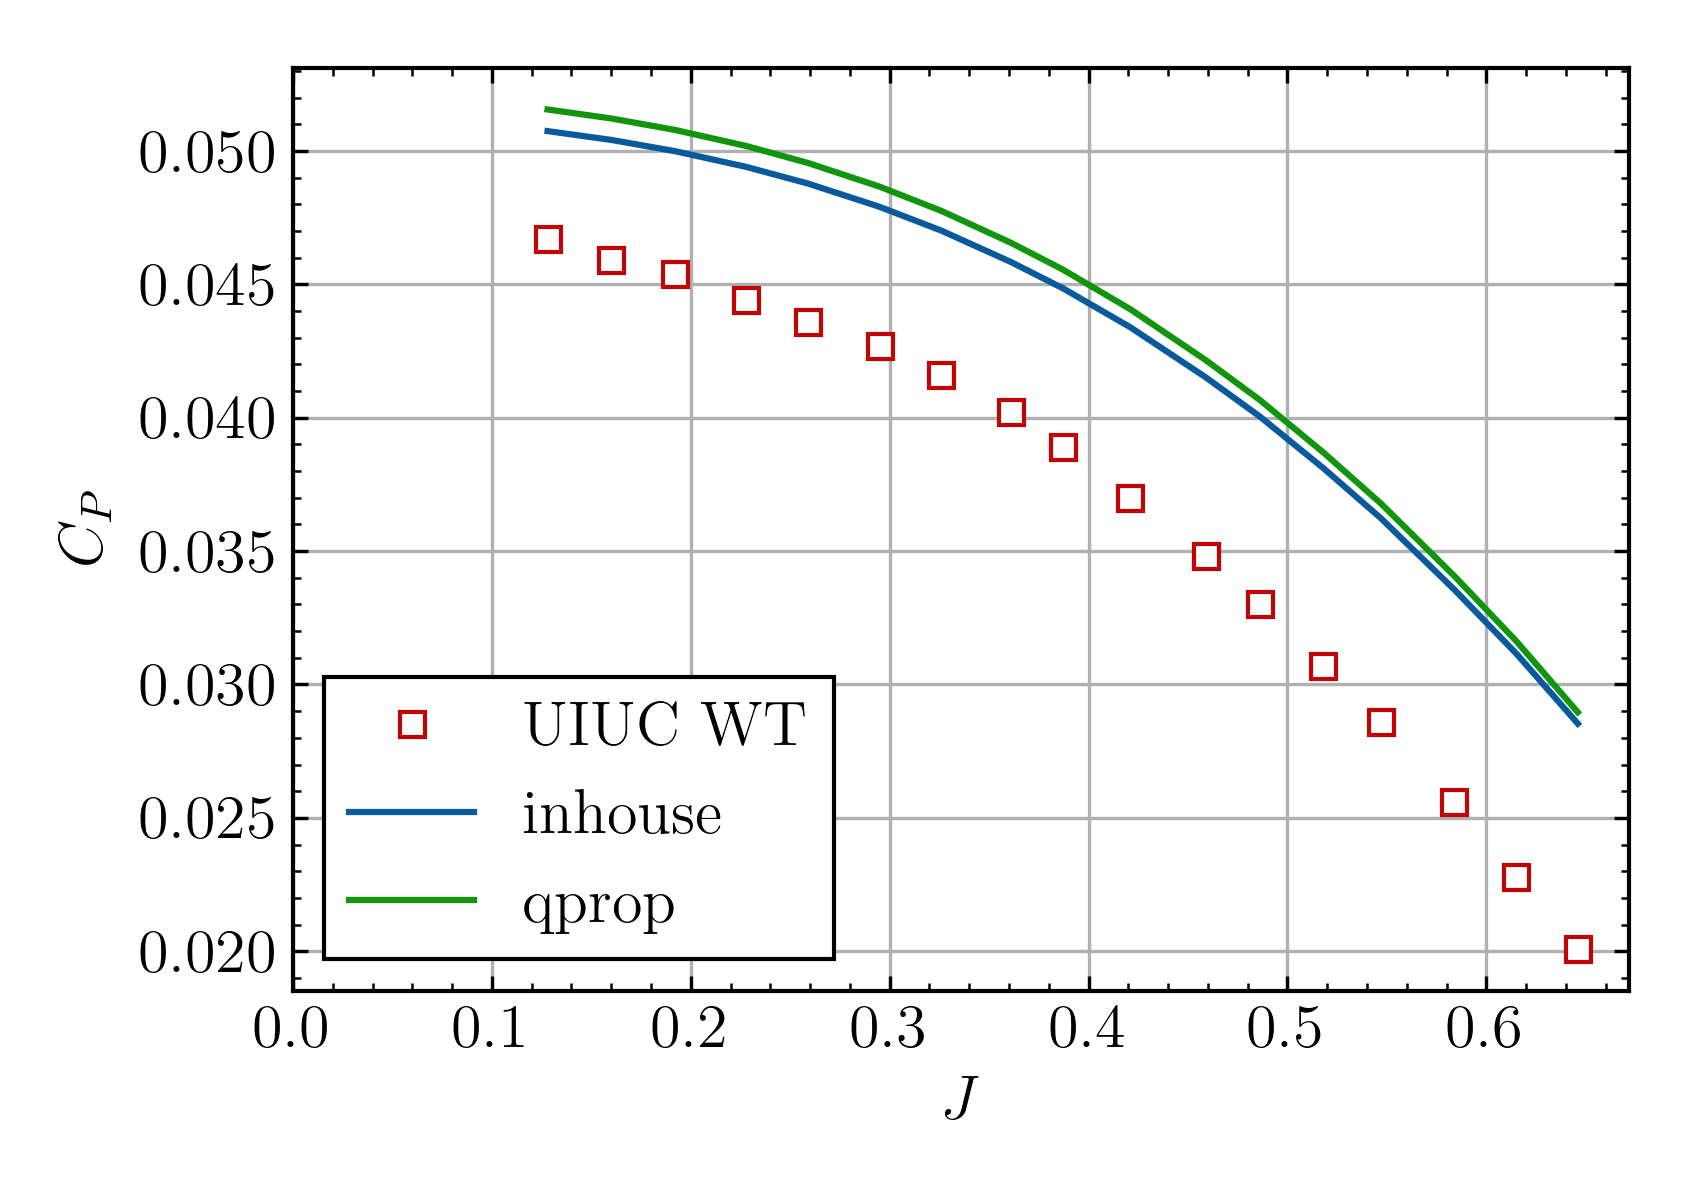
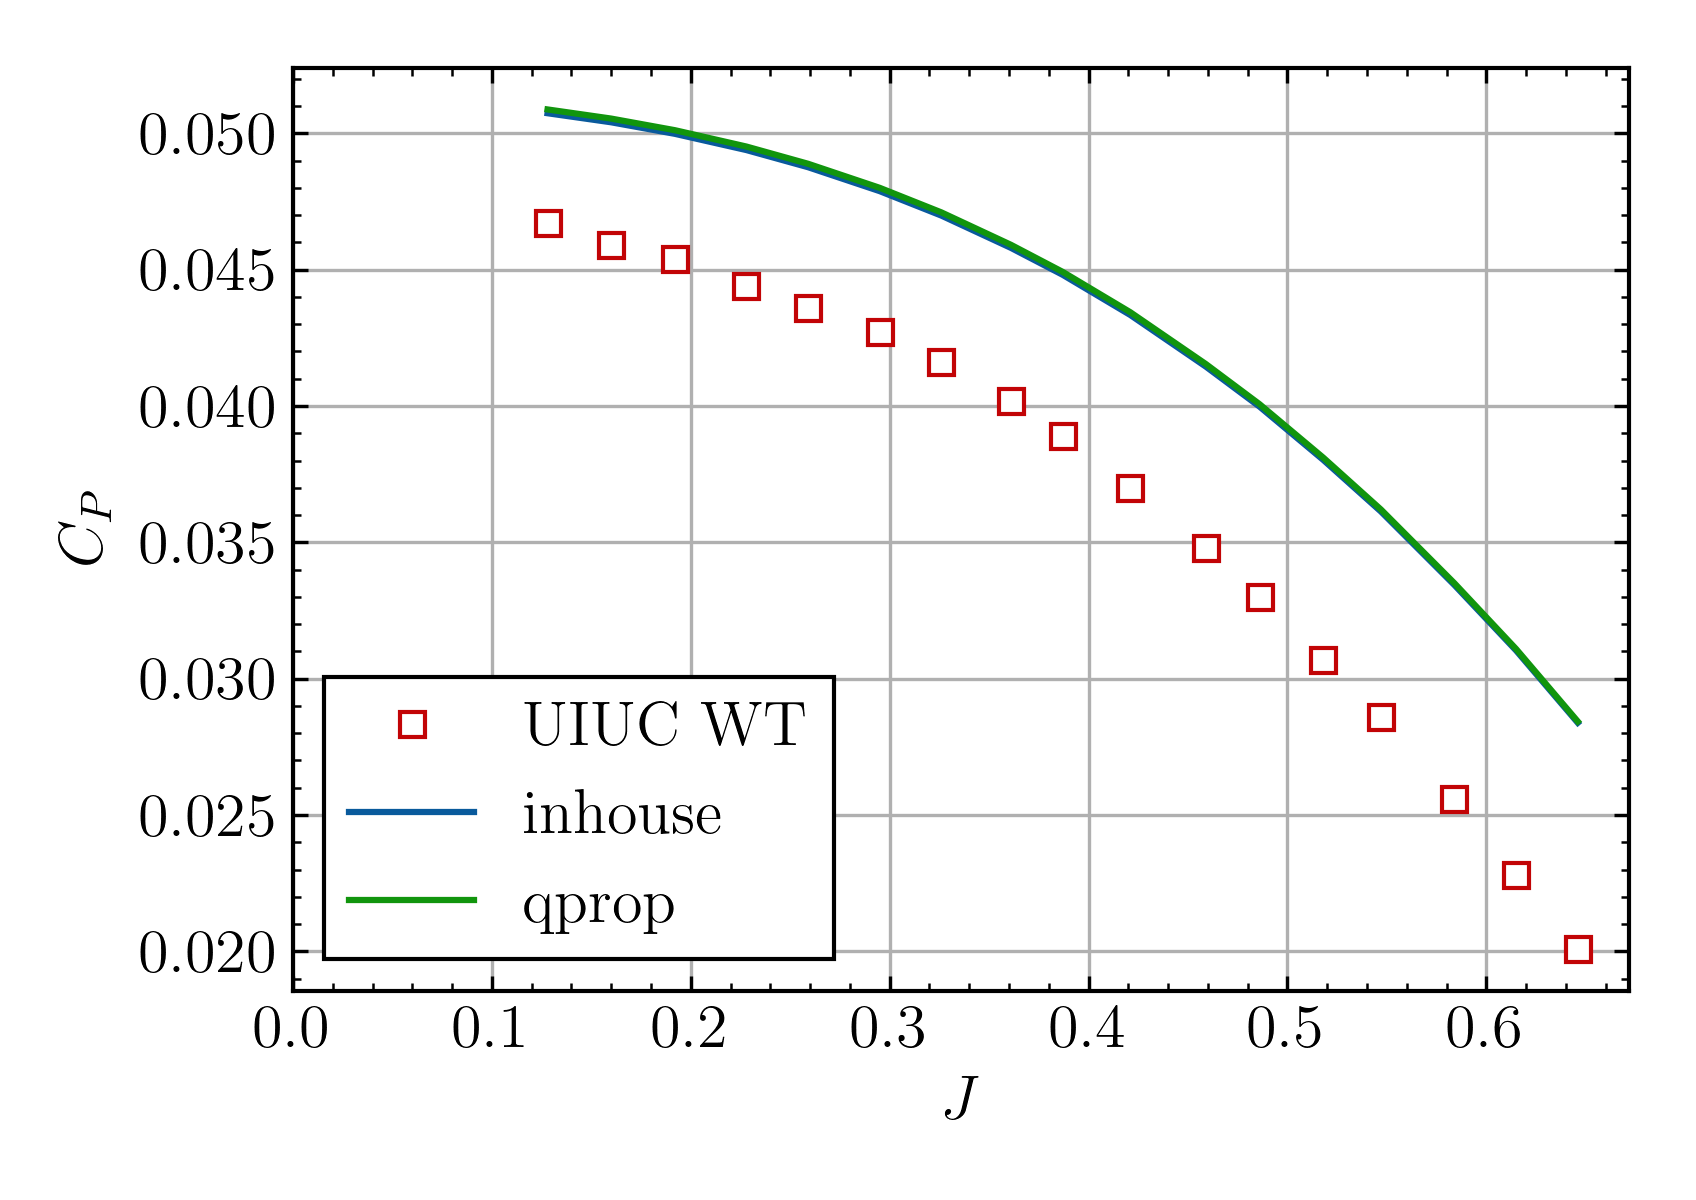
validation with qprop complete

diff --git a/ANALYSIS/perform_analysis_refactor.py b/ANALYSIS/perform_analysis_refactor.py
@@ -202,8 +202,8 @@ class HFprop:
         self.T = 0
         self.Q = 0
         for i in range(len(self.r)):
-            self.T += dT[i] * (self.r[1]-self.r[0])
-            self.Q += dQ[i] * (self.r[1]-self.r[0])
+            self.T += dT[i] * (1.0-0.15)/25*0.1143#* (self.r[1]-self.r[0])
+            self.Q += dQ[i] * (1.0-0.15)/25*0.1143#(self.r[1]-self.r[0])
         self.Ct = self.T / (self.RHO * self.RPS**2 * (2*self.R)**4)
         self.Cq = self.Q / (self.RHO * self.RPS**2 * (2*self.R)**5)
         self.Cp = self.Cq * 2 * PI

diff --git a/ANALYSIS/validation/validation-qprop.py b/ANALYSIS/validation/validation-qprop.py
@@ -15,7 +15,7 @@ uiuc_Cp = uiuc_data[:,2]
 uiuc_eta = uiuc_data[:,3]
 rpm = 5013
 rps = rpm/60
-R = 0.114
+R = 0.1143
 rho = 1.225
 
 hfprop_Cp_smoozedtable = []
